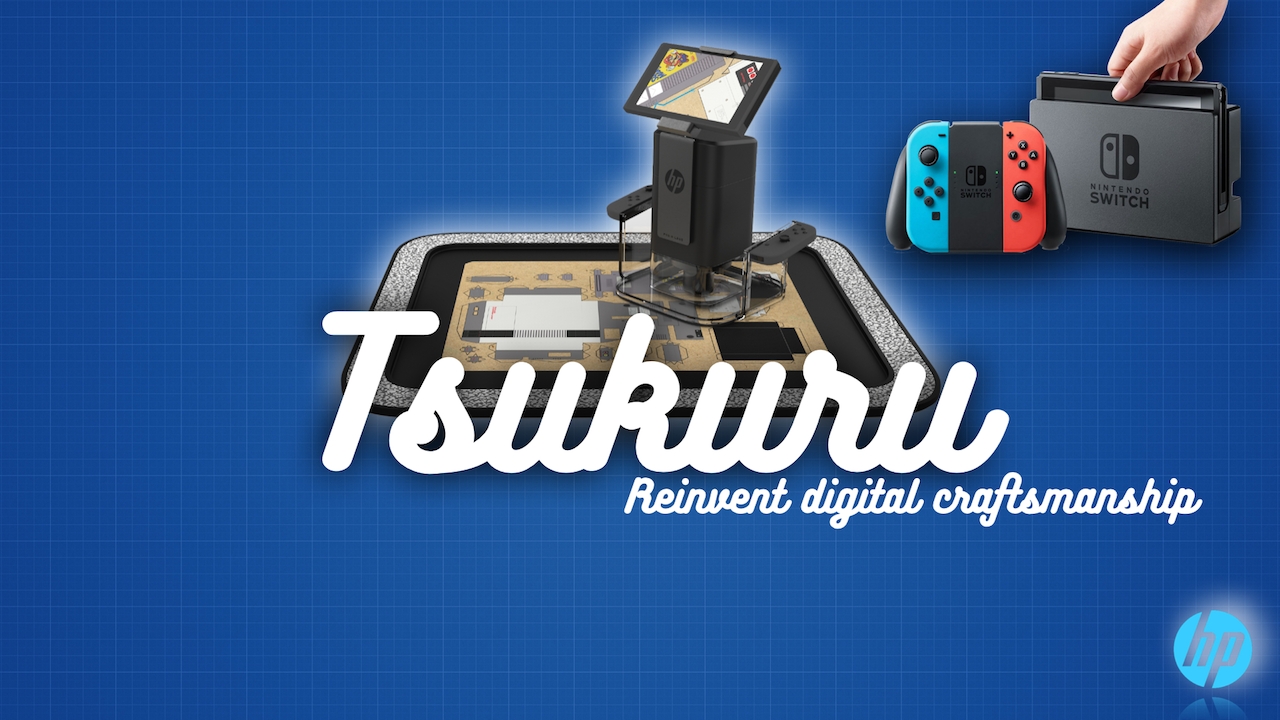
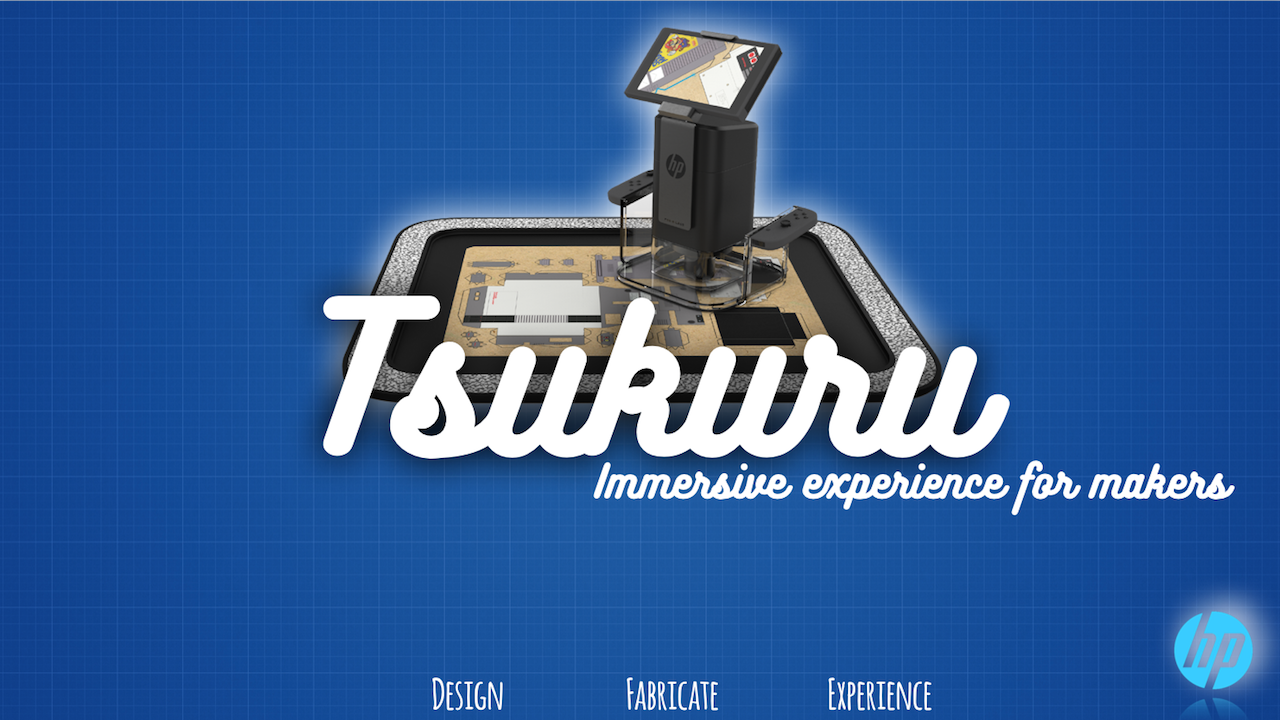
all the code

diff --git a/tsukuru_code/Tsukuru.py b/tsukuru_code/Tsukuru.py
@@ -52,10 +52,10 @@ class introScreen:
 
 
         #program font panel
-        self.font = pygame.font.SysFont("Impact", 20)
-        self.smallfont = pygame.font.SysFont("Impact", 25)
-        self.medfont = pygame.font.SysFont("Impact", 50)
-        self.largefont = pygame.font.SysFont("Impact", 85)
+        self.font = pygame.font.SysFont("Bukhari Script", 20)
+        self.smallfont = pygame.font.SysFont("Bukhari Script", 25)
+        self.medfont = pygame.font.SysFont("Bukhari Script", 50)
+        self.largefont = pygame.font.SysFont("Bukhari Script", 85)
 
         #program mouse control panel
         self.QUIT = False
@@ -76,6 +76,8 @@ class introScreen:
         #Setup the pygame screen
         self.screen_width = 1280
         self.screen_height = 720
+        # self.screen_width = 375
+        # self.screen_height = 667
         self.screen_size = (self.screen_width, self.screen_height)    
         self.screen = pygame.display.set_mode(self.screen_size)
 
@@ -85,16 +87,17 @@ class introScreen:
 
         # Load the image source for buttons
         self.bg = pygame.image.load("pics/intro_bg.png")
+        self.bg_clean = pygame.image.load("pics/bg_clean.png")
         self.design_icon = pygame.image.load("pics/design_icon.png")
         self.fab_icon = pygame.image.load("pics/fab_icon.png")
         self.exp_icon = pygame.image.load("pics/exp_icon.png")
-        self.backicon = pygame.image.load("image/back.png")
+        self.back_icon = pygame.image.load("pics/back.png")
 
         # Make all the buttons objects 
         self.designbutton = pygame.transform.scale(self.design_icon, (130,130))
         self.fabbutton = pygame.transform.scale(self.fab_icon, (135,135))
         self.expbutton = pygame.transform.scale(self.exp_icon, (128,128))
-        self.back_button = pygame.transform.scale(self.backicon,(80,80))
+        self.back_button = pygame.transform.scale(self.back_icon,(40,40))
 
     def record_audio(self):
         
@@ -190,12 +193,12 @@ class introScreen:
 
                 if action == "design":
                     self.designScreen()
-                    print("This is design Mode")
+                    print("This is Design Mode")
 
                 if action == "fab":
                     self.fabricationScreen()
                     
-                    print("This is fabrication Mode")
+                    print("This is Fabrication Mode")
 
                 if action == "exp":
                     self.experienceScreen()
@@ -260,13 +263,16 @@ class introScreen:
                         quit()
 
 
-            self.screen.blit(self.bg, (0,0))
+            self.screen.blit(self.bg_clean, (0,0))     
             
-            self.button("back", 75,588,46,46, self.WINE, self.light_wine, action="backFromDesign")
-            self.button("Speak", 73,490,46,46, self.CYAN, self.light_cyan, action="speak")      
+            self.button("back", 155,645,150,150, self.WINE, self.light_wine, action="backFromDesign")
+            # self.button("Speak", 73,490,46,46, self.CYAN, self.light_cyan, action="speak")      
 
-            listenScreenText = self.largefont.render("Listen Mode",True, self.WHITE)
-            self.screen.blit(listenScreenText, [300,50])
+            listenScreenText = self.largefont.render("Design Mode",True, self.WHITE)
+
+            self.screen.blit(self.back_icon, (35, 528))
+
+            self.screen.blit(listenScreenText, [400,30])
             pygame.display.update()
 
             self.clock.tick(15)
@@ -282,46 +288,23 @@ class introScreen:
                         pygame.quit()
                         quit()
             
-            self.screen.blit(self.bg, (0,0))
-
-            self.button("back", 75,588,46,46, self.WINE, self.light_wine, action="backFromFab")
-            self.screen.blit(self.back_button, (35, 548))
+            self.screen.blit(self.bg_clean, (0,0))     
             
-            self.button("Listen", 75,490,46,46, self.COFFEE, self.light_coffee, action="listen")
-            self.screen.blit(self.listenbutton_small, (28, 442))
+            self.button("back", 155,645,150,150, self.WINE, self.light_wine, action="backFromFab")
+            # self.button("Speak", 73,490,46,46, self.CYAN, self.light_cyan, action="speak")      
 
-            speakScreenText = self.largefont.render("Speech Mode",True, self.WHITE)
-            self.screen.blit(speakScreenText, [300,50])
-            
-            self.button("Start", 320,590,46,46, self.WINE, self.light_wine, action="startspeech")
-            self.screen.blit(self.speechicon,[297,565])
-            self.button("End", 670,590,46,46, self.CYAN, self.light_cyan, action="endspeech") 
-            self.screen.blit(self.stopicon, [647, 565])
+            listenScreenText = self.largefont.render("Fabrication Mode",True, self.WHITE)
 
+            self.screen.blit(self.back_icon, (35, 528))
 
-
-            if(self.isSpeaking == False):
-                starterText = self.smallfont.render("Please hit Record to start speech recognition. Press stop when finished.", True, self.WHITE)
-                self.screen.blit(starterText,[100,150]) 
-
-            recognizingText = self.smallfont.render("", True, self.WHITE)
-            if(self.isSpeaking == True):
-                recognizingText = self.smallfont.render("Recognizing your speech...", True, self.WHITE)
-                self.screen.blit(recognizingText,[100,200]) 
-
-            recognitionText = self.medfont.render(self.recogText, True, self.WHITE)
-            self.screen.blit(recognitionText,[100,300]) 
-
-            if(self.isEndSpeech == True):
-                endText = self.smallfont.render("Pausing your speech...", True, self.WHITE)
-                self.screen.blit(recognizingText,[100,200]) 
+            self.screen.blit(listenScreenText, [300,30])
             
             pygame.display.update()
 
             self.clock.tick(15)
 
     # Experience Modes is for user to see what is capable of Nintendo Switch 
-    def ExperienceScreen(self):
+    def experienceScreen(self):
         gcont = True
 
         while gcont:
@@ -331,10 +314,16 @@ class introScreen:
                         pygame.quit()
                         quit()
 
-            self.screen.blit(self.instruction, [0,0])
+            self.screen.blit(self.bg_clean, (0,0))     
+            
+            self.button("back", 155,645,150,150, self.WINE, self.light_wine, action="backFromExp")
+            # self.button("Speak", 73,490,46,46, self.CYAN, self.light_cyan, action="speak")      
 
-            self.button("back", 75,588,46,46, self.WINE, self.light_wine, action="backFromExp")
-            self.screen.blit(self.back_button, (35, 548))
+            listenScreenText = self.largefont.render("Experience Mode",True, self.WHITE)
+
+            self.screen.blit(self.back_icon, (35, 528))
+
+            self.screen.blit(listenScreenText, [300,30])
 
             
 

diff --git a/tsukuru_code/paintme.py b/tsukuru_code/paintme.py
@@ -1,0 +1,42 @@
+import pygame
+from pygame.locals import *
+import sys, os
+import time
+
+pygame.init()
+
+mouse = pygame.mouse
+fpsClock = pygame.time.Clock()
+
+width = 320
+height = 240
+
+window = pygame.display.set_mode((width, height))
+canvas = window.copy()
+#                     R    G    B
+BLACK = pygame.Color( 0 ,  0 ,  0 )
+WHITE = pygame.Color(255, 255, 255)
+
+pygame.display.update()
+
+window.fill(WHITE)
+
+pygame.draw.circle(window, BLACK, (pygame.mouse.get_pos()), 5)
+
+left_pressed, middle_pressed, right_pressed = mouse.get_pressed()
+
+while True:
+  for event in pygame.event.get():
+    if event.type == QUIT:
+        pygame.quit()
+        sys.exit()
+    elif left_pressed:
+        pygame.draw.circle(canvas, BLACK, (pygame.mouse.get_pos()),5)
+
+
+
+window.blit(canvas, (0, 0))
+
+canvas.fill(WHITE)
+
+pygame.display.set_caption('Paintme')
